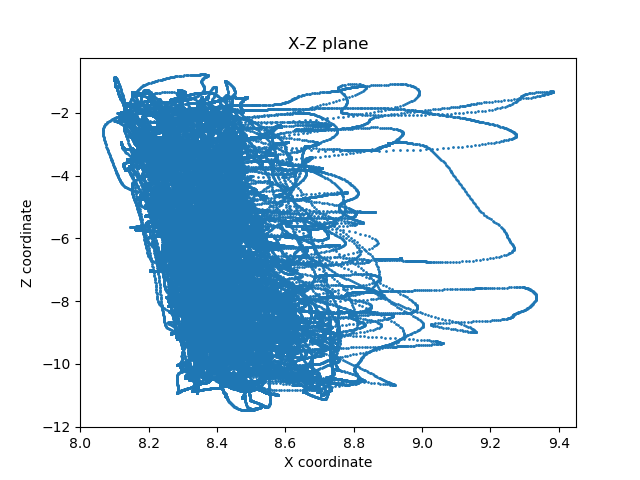
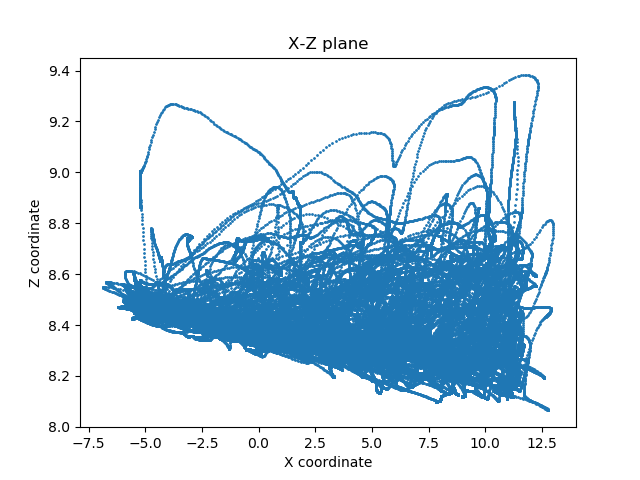
correct position and velocity axises error

diff --git a/plot_x_y_trajectory.py b/plot_x_y_trajectory.py
@@ -27,9 +27,9 @@ with h5py.File('indy_20160407_02.mat', 'r') as mat_file:
     print('numpy_time_stamp: ',end='')
     print(numpy_time_stamp.shape)  #  (1, 204446)
 
-    finger_x_coor=numpy_finger_pos[0][:]
-    finger_y_coor=numpy_finger_pos[1][:]
-    finger_z_coor=numpy_finger_pos[2][:]
+    finger_z_coor=numpy_finger_pos[0][:]
+    finger_x_coor=numpy_finger_pos[1][:]
+    finger_y_coor=numpy_finger_pos[2][:]
 
 plot.scatter(finger_x_coor, finger_y_coor, s=1)
 plot.title('X-Y plane')

diff --git a/plot_x_y_velocity.py b/plot_x_y_velocity.py
@@ -20,9 +20,9 @@ with h5py.File('indy_20160407_02.mat', 'r') as mat_file:
     print('numpy_time_stamp: ',end='')
     print(numpy_time_stamp.shape)  #  (1, 204446)
 
-    finger_x_coor=numpy_finger_pos[0][:]
-    finger_y_coor=numpy_finger_pos[1][:]
-    finger_z_coor=numpy_finger_pos[2][:]
+    finger_z_coor=numpy_finger_pos[0][:]
+    finger_x_coor=numpy_finger_pos[1][:]
+    finger_y_coor=numpy_finger_pos[2][:]
 
     finger_x_velocity=[]
     finger_y_velocity=[]
